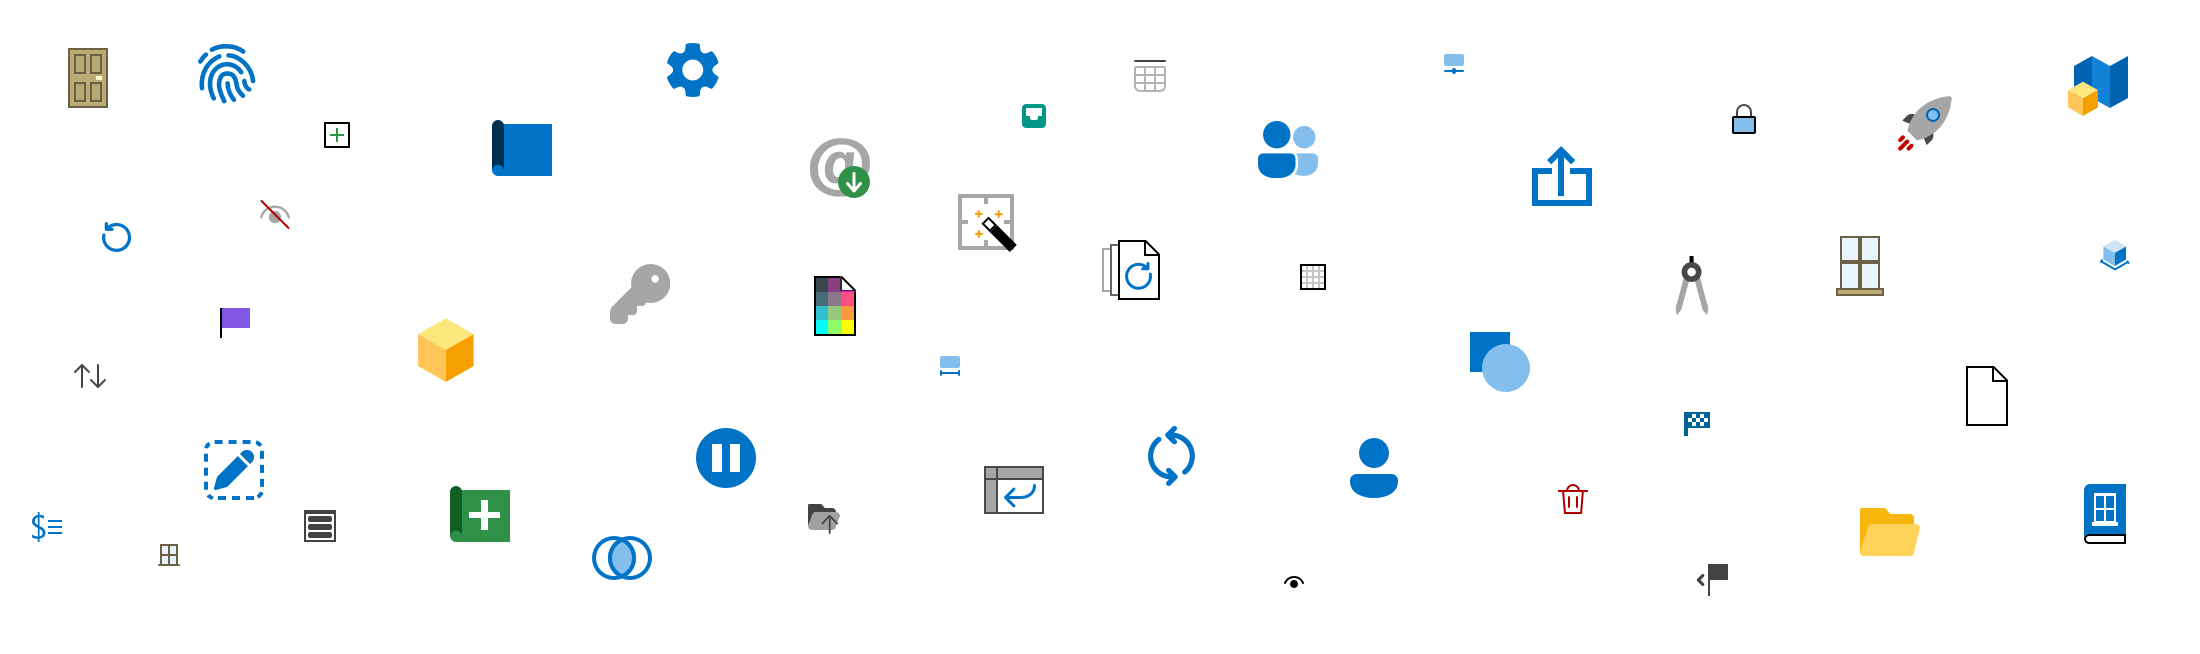
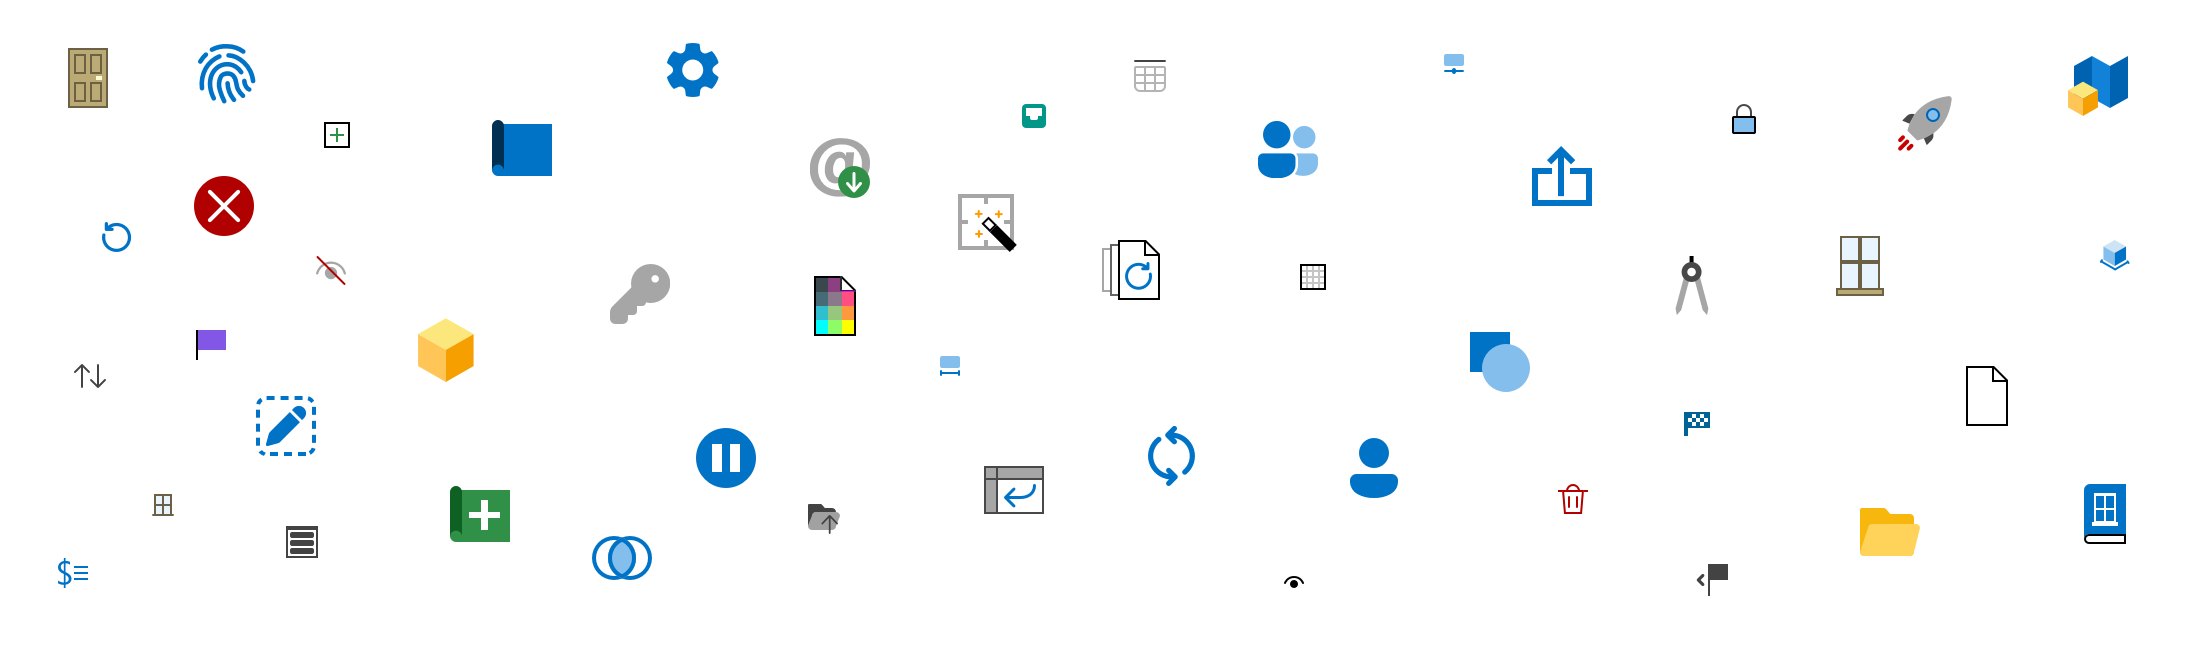
Updated screenshot

diff --git a/cubit-estimating/index.html b/cubit-estimating/index.html
@@ -95,7 +95,7 @@
 			<img src="screenshot-plans.png" class="example" />
 			
 			<h3 class="subhead">Redesigned Icon Set</h3>
-			<p>As we were adding all of these new features we took the opportunity to make Cubit Estimating feel fresh by creating a brand new icon set for the entire application. It was important to be that the icon set felt like it belonged to the modern Windows style so ribbon icons were designed with a flat appearance and toolbar icons use a monochrome appearance. For the first time every single icon had both light and dark mode variants.</p>
+			<p>As we were adding all of these new features we took the opportunity to make Cubit Estimating feel fresh by creating a brand new icon set for the entire application (featuring over 300 icons). It was important that the icon set felt like it belonged to the modern Windows style, so ribbon icons were designed with a flat appearance and toolbar icons use a monochrome appearance. For the first time in Cubit Estimating every icon had both light and dark mode variants.</p>
 			<img src="screenshot-icons.png" class="example" />
 			
 			<h4 class="type">Prototypes</h4>
